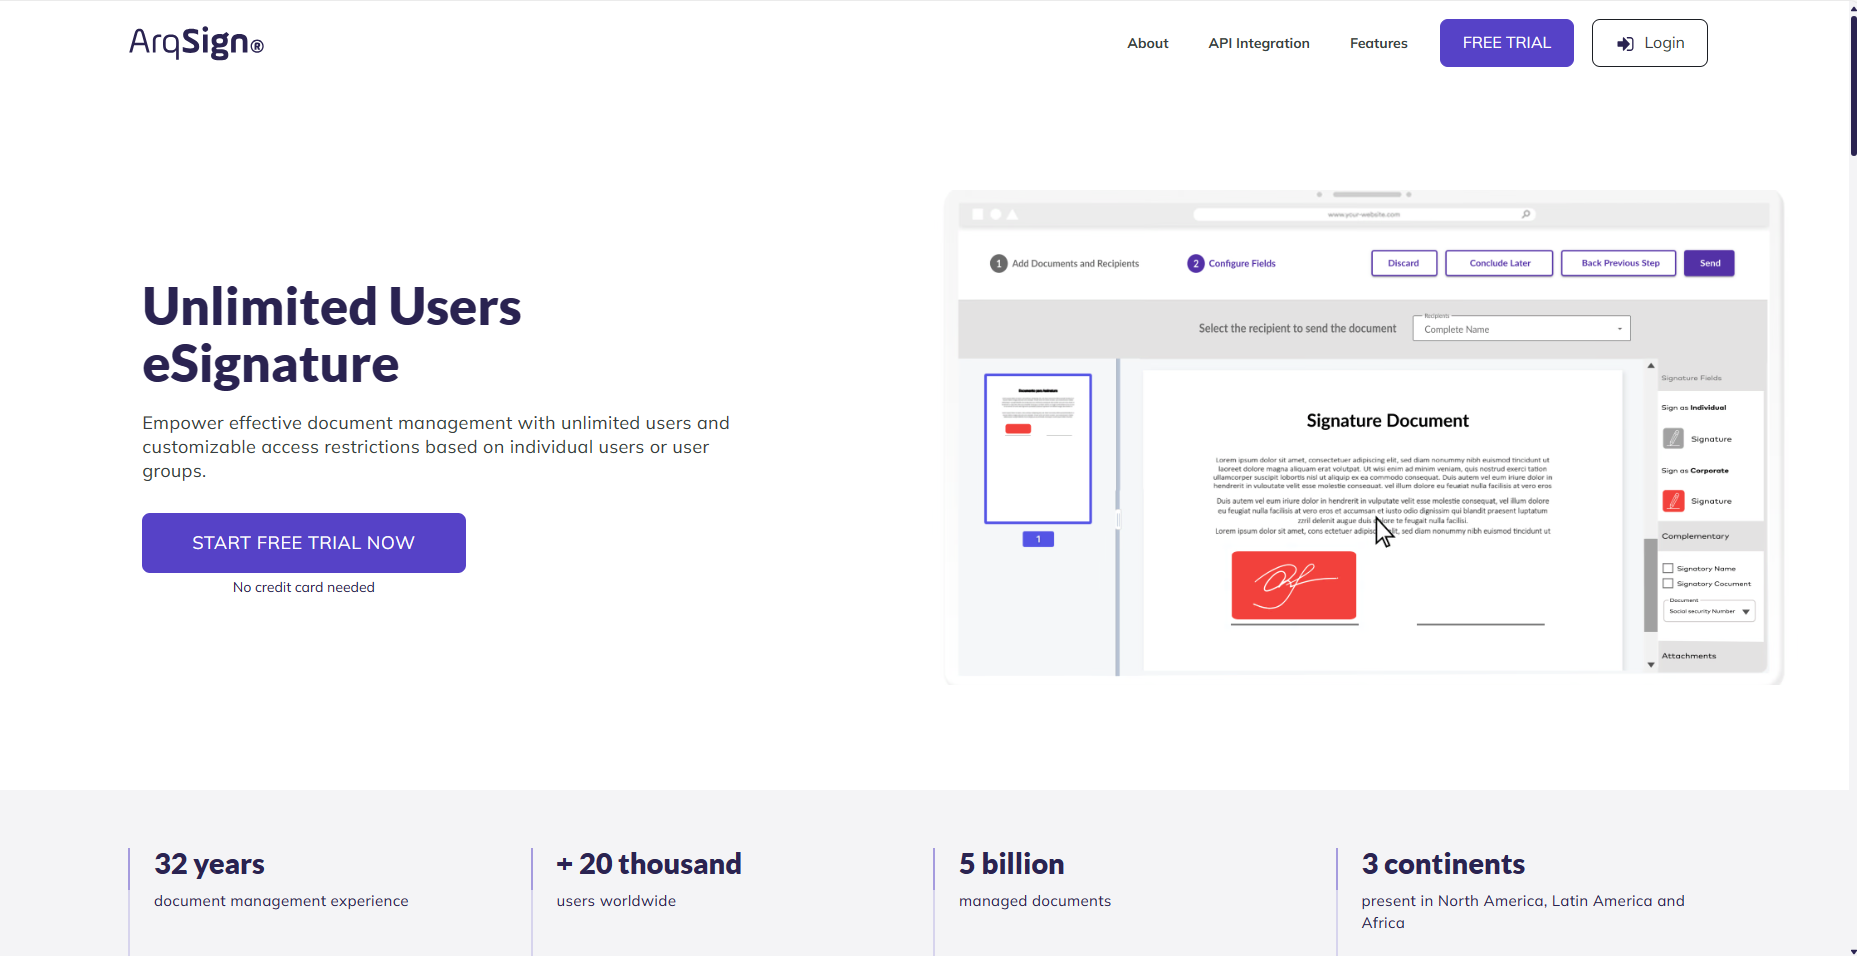
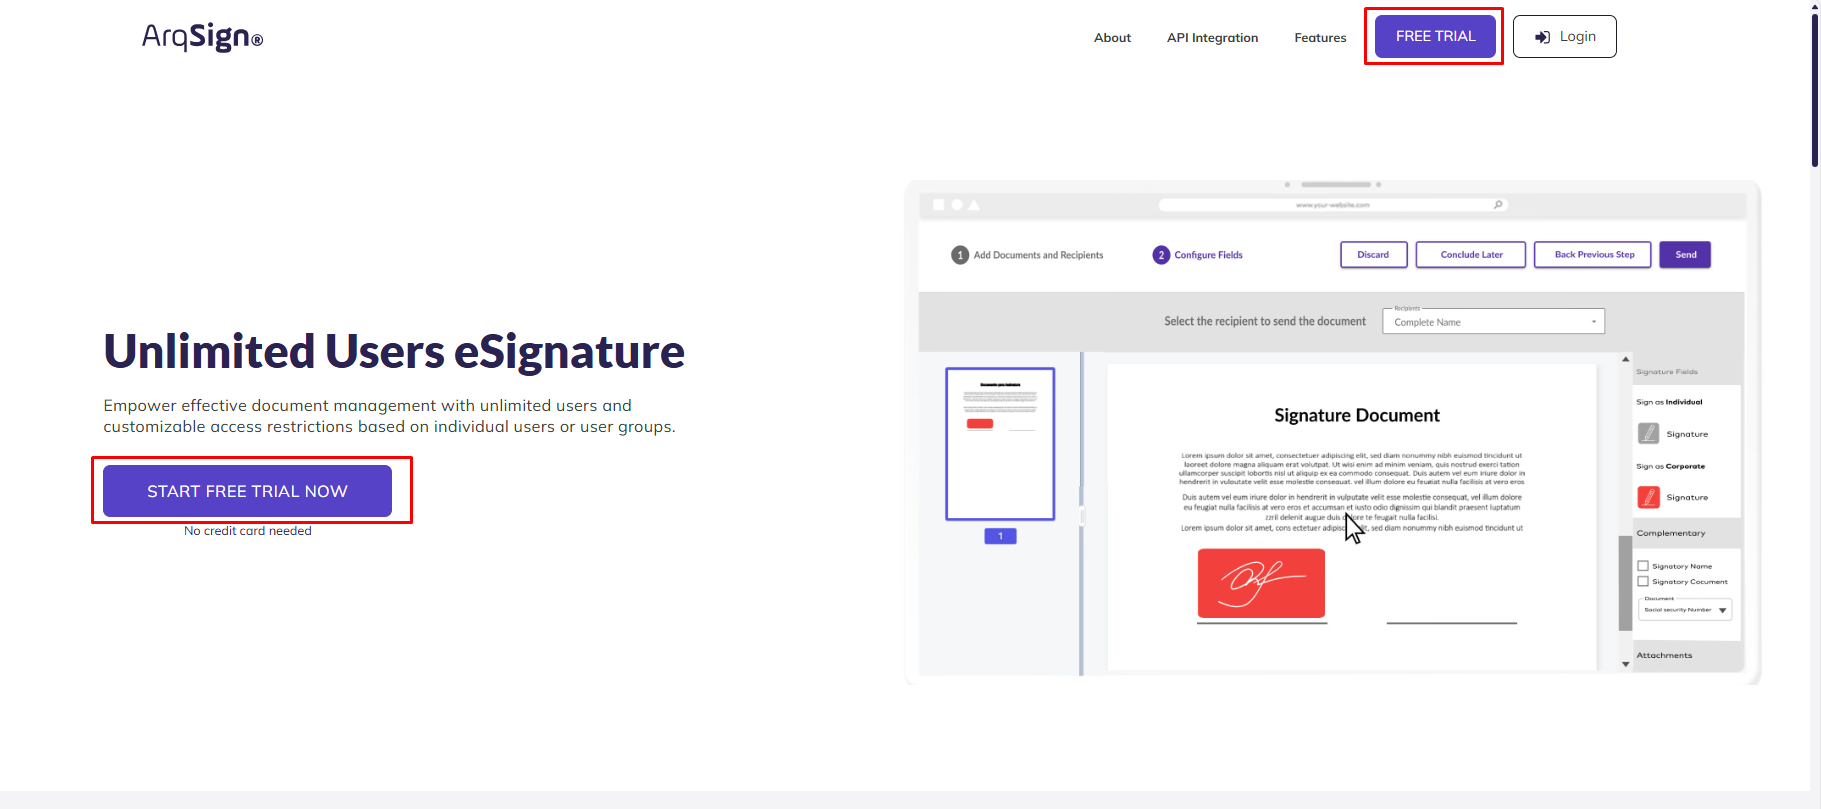
GITBOOK-112: No subject

diff --git a/README.md b/README.md
@@ -25,7 +25,7 @@ A Signatory is an individual or legal entity that participates in the signing pr
 
 The ArqSign website (_<mark style="color:purple;">arquivar.com</mark>_) provides comprehensive information about the platform, including its features and subscription plans. On the homepage, users can also access the platform login page and sign up for a free trial account.
 
-<figure><img src=".gitbook/assets/image (1).png" alt=""><figcaption><p>Click on the image to enlarge.</p></figcaption></figure>
+<figure><img src=".gitbook/assets/image (1) (1).png" alt=""><figcaption><p>Click on the image to enlarge.</p></figcaption></figure>
 
 ***
 
@@ -35,11 +35,11 @@ To request support or assistance, navigate to the bottom menu of the page and cl
 
 <figure><img src=".gitbook/assets/image (3).png" alt=""><figcaption><p>Click on the image to nlarge.</p></figcaption></figure>
 
-Users will be redirected to the platform's Help Center, where they can search through posted content to find solutions to their questions or request contact with the support team.  &#x20;
+<mark style="color:yellow;">Users will be redirected to the platform's Help Center, where they can search through posted content to find solutions to their questions or request contact with the support team.</mark>  &#x20;
 
 <figure><img src=".gitbook/assets/03 (6).png" alt=""><figcaption><p>Click on the image to enlarge.</p></figcaption></figure>
 
-Contacting the support team can be done via WhatsApp, chat, email (faleconosco@arqsign.com), or phone (4003-8839).&#x20;
+Contacting the support team can be done via <mark style="color:yellow;">WhatsApp</mark>, chat, email ([contact@arqsign.com](mailto:contact@arqsign.com)), or phone <mark style="color:yellow;">(4003-8839)</mark>.&#x20;
 
 <figure><img src=".gitbook/assets/04 (6).png" alt=""><figcaption><p>Click on the image to enlarge.</p></figcaption></figure>
 
@@ -65,7 +65,7 @@ The free trial account of the ArqSign Platform provides users with nearly all th
 
 1. To create a free trial account, on the ArqSign platform's homepage, click on "Free Trial".
 
-<figure><img src=".gitbook/assets/07 (6).png" alt=""><figcaption><p>Click on the image to enlarge.</p></figcaption></figure>
+<figure><img src=".gitbook/assets/image.png" alt=""><figcaption><p>Click on the image to enlarge</p></figcaption></figure>
 
 2. The user will be redirected to the login page, where they should provide their email and click on "Next".
 
